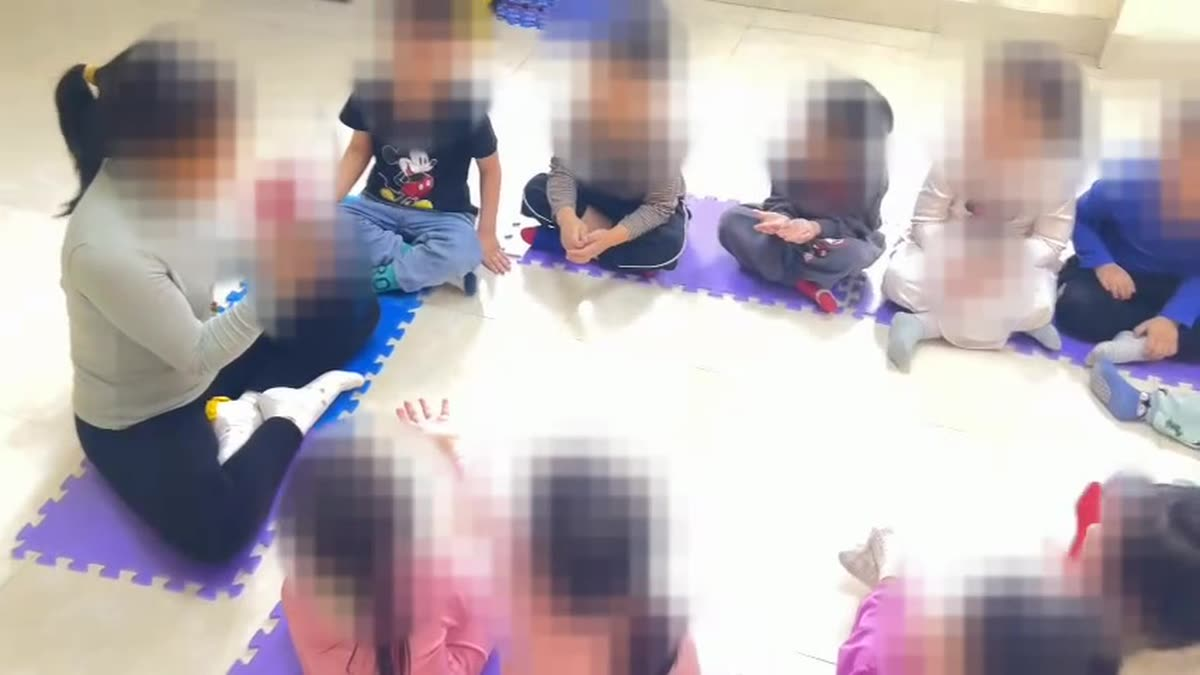
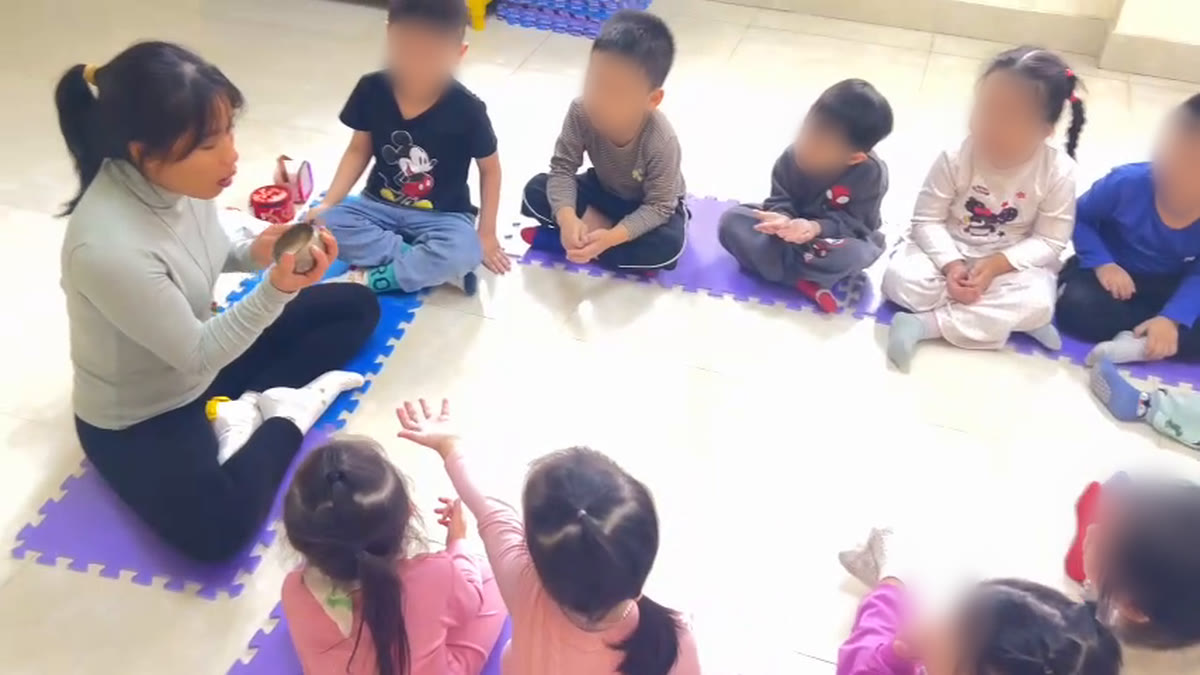
Bài gõ chuông: ảnh tĩnh che mặt bé nhẹ, gọn; không che cô; ảnh bìa video rõ nét
Claude-Session: https://claude.ai/code/session_01UYnZtiY1VnSXg9VczmdEmQ

diff --git a/tro-choi-go-chuong/index.html b/tro-choi-go-chuong/index.html
@@ -10,7 +10,7 @@
   <meta property="og:url" content="https://sophiayogakids.com/tro-choi-go-chuong/">
   <meta property="og:title" content="Trò chơi gõ chuông: nghe đến khi tiếng chuông tắt hẳn | Sophia Yoga">
   <meta property="og:description" content="Cô gõ chuông một tiếng, cả lớp lắng nghe đến khi tiếng ngân tắt hẳn rồi mới giơ tay. Trò chơi lắng nghe trong lớp Yoga trẻ em, có video lớp thật.">
-  <meta property="og:image" content="https://sophiayogakids.com/images/bai-tro-choi-go-chuong.jpg">
+  <meta property="og:image" content="https://sophiayogakids.com/images/bai-tro-choi-go-chuong.jpg?v=2">
   <meta property="og:image:width" content="1200">
   <meta property="og:image:height" content="600">
   <link rel="preconnect" href="https://fonts.googleapis.com">
@@ -64,7 +64,7 @@
     <a href="../index.html#yoga-tre-em" class="back-link">← Quay lại Yoga trẻ em</a>
     <p><span class="tag">Yoga trẻ em · Trò chơi</span></p>
     <h1>Trò chơi gõ chuông: nghe đến khi tiếng chuông tắt hẳn</h1>
-    <figure class="gb-hero"><img src="../images/tro-choi-go-chuong/00.jpg" alt="Cô ngồi trên thảm, cầm chiếc chuông xoay bằng đồng; các bé ngồi thành vòng tròn trên thảm màu, mặt các bé được che" width="1200" height="675"><figcaption>Cô cầm chuông lên. Cả vòng tròn bỗng nhỏ tiếng hẳn.</figcaption></figure>
+    <figure class="gb-hero"><img src="../images/tro-choi-go-chuong/00.jpg?v=2" alt="Cô ngồi trên thảm, cầm chiếc chuông xoay bằng đồng; các bé ngồi thành vòng tròn trên thảm màu, mặt các bé được che" width="1200" height="675"><figcaption>Cô cầm chuông lên. Cả vòng tròn bỗng nhỏ tiếng hẳn.</figcaption></figure>
     <div class="cd-facts">
       <div><b>👧 Độ tuổi</b>Mầm non, từ khoảng 3 tuổi</div>
       <div><b>⏱ Thời gian</b>5 đến 7 phút, trước giờ thư giãn hoặc lúc chuyển hoạt động</div>
@@ -83,13 +83,13 @@
 
     <h2>Xem lớp chơi</h2>
     <p>Video thật từ một lớp mầm non. Cô đã lồng nhạc nền nhẹ để bớt tiếng ồn của lớp.</p>
-    <figure class="gc-video"><video controls playsinline preload="metadata" poster="../videos/tro-choi-go-chuong-poster.jpg" width="854" height="480"><source src="../videos/tro-choi-go-chuong.mp4?v=2" type="video/mp4"></video><figcaption>Cô gõ chuông cho cả lớp nghe, rồi mang chuông đến từng bạn. Khoảng 1 phút.</figcaption></figure>
+    <figure class="gc-video"><video controls playsinline preload="metadata" poster="../videos/tro-choi-go-chuong-poster.jpg?v=2" width="854" height="480"><source src="../videos/tro-choi-go-chuong.mp4?v=2" type="video/mp4"></video><figcaption>Cô gõ chuông cho cả lớp nghe, rồi mang chuông đến từng bạn. Khoảng 1 phút.</figcaption></figure>
 
     <h2>Cách chơi, từng bước</h2>
     <p class="cd-guide">Ảnh cắt từ video lớp học.</p>
     <ol class="cd-steps">
       <li class="cd-step">
-        <div class="cd-step-img gc-step-img"><img src="../images/tro-choi-go-chuong/02.jpg" alt="Cô ngồi trên thảm, đưa chiếc chuông lên cho các bé ngồi gần nhìn, mặt các bé được che" loading="lazy" width="1200" height="675"><span class="cd-step-no">1</span></div>
+        <div class="cd-step-img gc-step-img"><img src="../images/tro-choi-go-chuong/02.jpg?v=2" alt="Cô ngồi trên thảm, đưa chiếc chuông lên cho các bé ngồi gần nhìn, mặt các bé được che" loading="lazy" width="1200" height="675"><span class="cd-step-no">1</span></div>
         <div class="cd-step-body">
           <h3>Ngồi vòng tròn, làm quen với chiếc chuông</h3>
           <p class="cd-pose">🔔 Nhìn và chờ</p>
@@ -98,7 +98,7 @@
         </div>
       </li>
       <li class="cd-step">
-        <div class="cd-step-img gc-step-img"><img src="../images/tro-choi-go-chuong/03.jpg" alt="Toàn cảnh lớp học: các bé ngồi thành vòng tròn trên thảm xanh tím, cô ngồi phía xa, mặt các bé được che" loading="lazy" width="1200" height="675"><span class="cd-step-no">2</span></div>
+        <div class="cd-step-img gc-step-img"><img src="../images/tro-choi-go-chuong/03.jpg?v=2" alt="Toàn cảnh lớp học: các bé ngồi thành vòng tròn trên thảm xanh tím, cô ngồi phía xa, mặt các bé được che" loading="lazy" width="1200" height="675"><span class="cd-step-no">2</span></div>
         <div class="cd-step-body">
           <h3>Cô gõ một tiếng, cả lớp nghe</h3>
           <p class="cd-pose">🔔 Lắng nghe</p>
@@ -107,7 +107,7 @@
         </div>
       </li>
       <li class="cd-step">
-        <div class="cd-step-img gc-step-img"><img src="../images/tro-choi-go-chuong/01.jpg" alt="Cô cầm chuông, một bé ngồi phía trước giơ tay lên cao, mặt các bé được che" loading="lazy" width="1200" height="675"><span class="cd-step-no">3</span></div>
+        <div class="cd-step-img gc-step-img"><img src="../images/tro-choi-go-chuong/01.jpg?v=2" alt="Cô cầm chuông, một bé ngồi phía trước giơ tay lên cao, mặt các bé được che" loading="lazy" width="1200" height="675"><span class="cd-step-no">3</span></div>
         <div class="cd-step-body">
           <h3>Hết tiếng thì giơ tay</h3>
           <p class="cd-pose">🔔 Tự biết dừng</p>
@@ -116,7 +116,7 @@
         </div>
       </li>
       <li class="cd-step">
-        <div class="cd-step-img gc-step-img"><img src="../images/tro-choi-go-chuong/04.jpg" alt="Cô ngồi xổm bên một bé, đưa chuông để bé cầm dùi gõ, mặt các bé được che" loading="lazy" width="1200" height="675"><span class="cd-step-no">4</span></div>
+        <div class="cd-step-img gc-step-img"><img src="../images/tro-choi-go-chuong/04.jpg?v=2" alt="Cô ngồi xổm bên một bé, đưa chuông để bé cầm dùi gõ, mặt các bé được che" loading="lazy" width="1200" height="675"><span class="cd-step-no">4</span></div>
         <div class="cd-step-body">
           <h3>Từng bạn được gõ chuông</h3>
           <p class="cd-pose">🔔 Đến lượt con</p>

diff --git a/index.html b/index.html
@@ -1249,7 +1249,7 @@
             </div>
           </article>
           <article class="post" data-cat="tro-choi">
-            <img class="post-photo" src="images/bai-tro-choi-go-chuong.jpg" alt="Cô ngồi trên thảm cầm chiếc chuông xoay, các bé ngồi thành vòng tròn, mặt các bé được che" loading="lazy" width="1200" height="600">
+            <img class="post-photo" src="images/bai-tro-choi-go-chuong.jpg?v=2" alt="Cô ngồi trên thảm cầm chiếc chuông xoay, các bé ngồi thành vòng tròn, mặt các bé được che" loading="lazy" width="1200" height="600">
             <div class="post-body">
               <span class="tag">Trò chơi</span>
               <h3><a href="tro-choi-go-chuong/">Trò chơi gõ chuông: nghe đến khi tiếng chuông tắt hẳn</a></h3>
